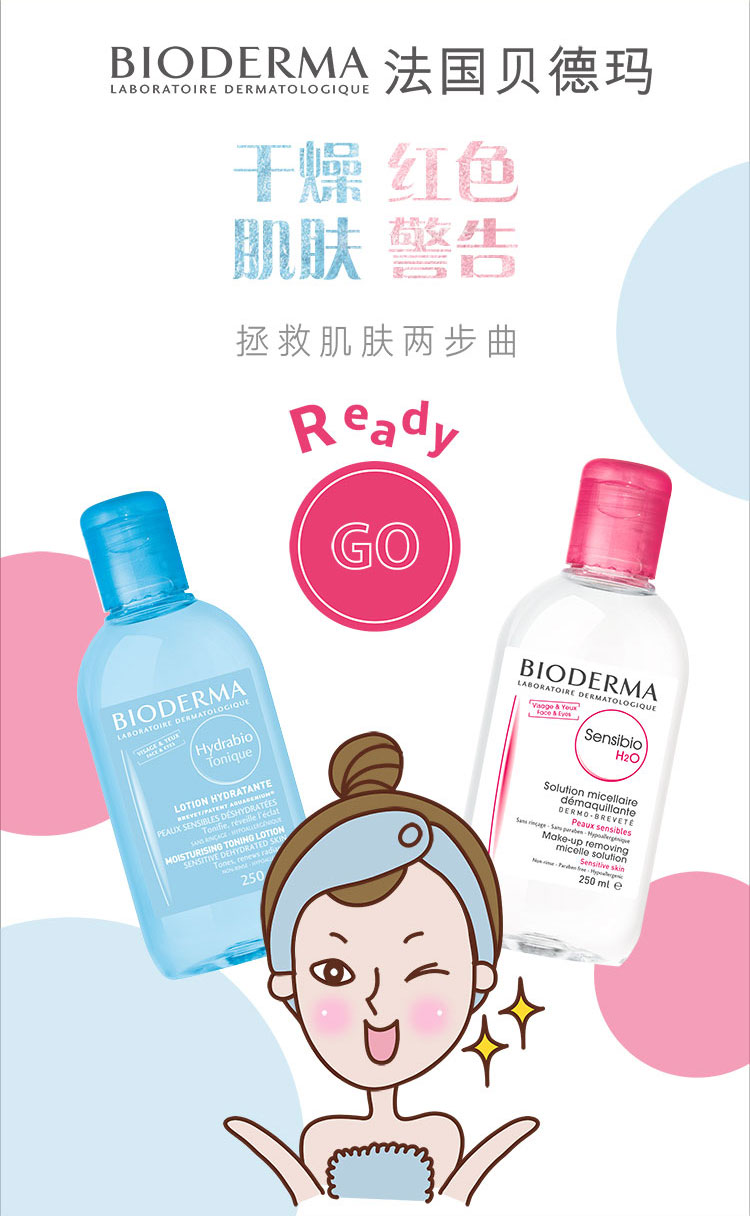
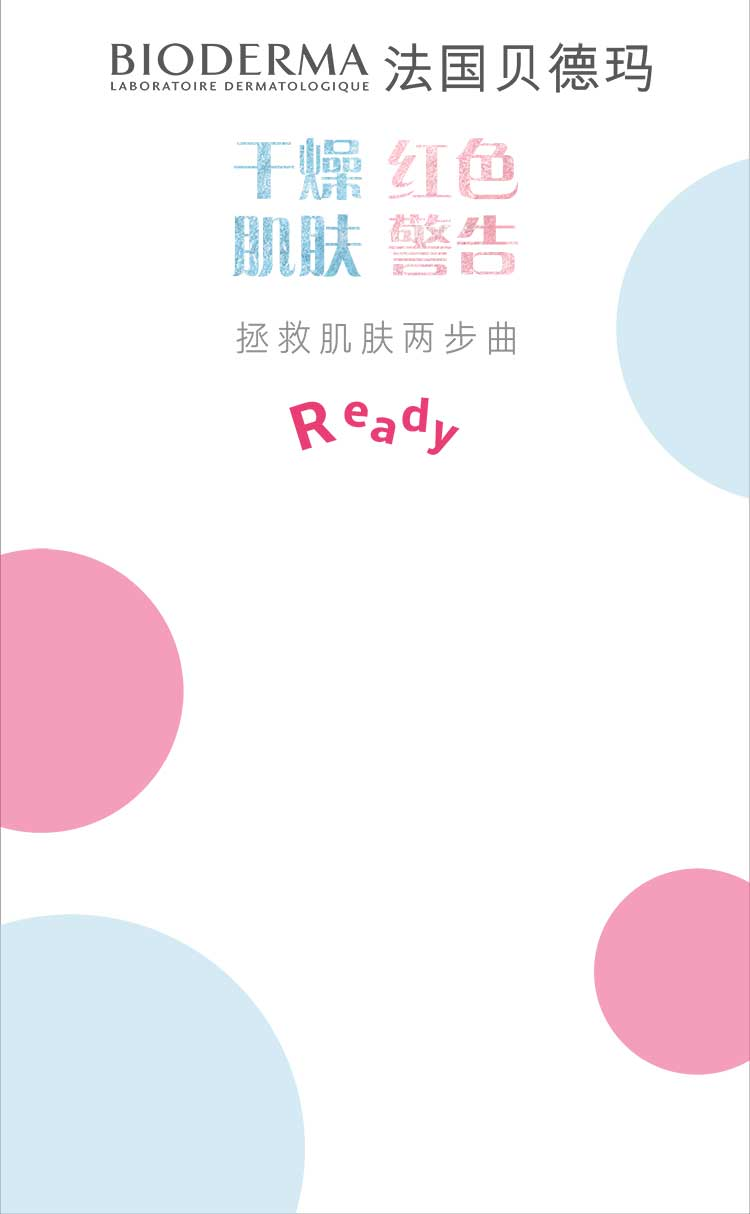
index animate

diff --git a/build/css/sprite.css b/build/css/sprite.css
@@ -22,11 +22,17 @@ To change `display` (e.g. `display: inline-block;`), we suggest using a common C
   width: 371px;
   height: 420px;
 }
+.blue-bottle-lid {
+  background-image: url(/build/img/sprite.png);
+  background-position: -2351px -594px;
+  width: 69px;
+  height: 24px;
+}
 .blue-bottle {
   background-image: url(/build/img/sprite.png);
-  background-position: -2230px -734px;
-  width: 87px;
-  height: 221px;
+  background-position: -1467px -812px;
+  width: 144px;
+  height: 349px;
 }
 .bubble {
   background-image: url(/build/img/sprite.png);
@@ -36,7 +42,7 @@ To change `display` (e.g. `display: inline-block;`), we suggest using a common C
 }
 .droplet-blue {
   background-image: url(/build/img/sprite.png);
-  background-position: -551px -1343px;
+  background-position: -795px -1343px;
   width: 208px;
   height: 197px;
 }
@@ -64,6 +70,18 @@ To change `display` (e.g. `display: inline-block;`), we suggest using a common C
   width: 492px;
   height: 734px;
 }
+.go {
+  background-image: url(/build/img/sprite.png);
+  background-position: -1003px -1343px;
+  width: 172px;
+  height: 171px;
+}
+.index-girl {
+  background-image: url(/build/img/sprite.png);
+  background-position: -985px -812px;
+  width: 322px;
+  height: 476px;
+}
 .pipe-blue {
   background-image: url(/build/img/sprite.png);
   background-position: -678px 0px;
@@ -78,37 +96,37 @@ To change `display` (e.g. `display: inline-block;`), we suggest using a common C
 }
 .red-bottle-glow {
   background-image: url(/build/img/sprite.png);
-  background-position: -985px -812px;
+  background-position: -687px -812px;
   width: 298px;
   height: 515px;
 }
 .red-bottle-lid {
   background-image: url(/build/img/sprite.png);
-  background-position: -2279px -955px;
+  background-position: -2351px -618px;
   width: 68px;
   height: 22px;
 }
 .red-bottle {
   background-image: url(/build/img/sprite.png);
-  background-position: -687px -812px;
-  width: 298px;
-  height: 515px;
+  background-position: -1611px -812px;
+  width: 143px;
+  height: 348px;
 }
 .txt-1 {
   background-image: url(/build/img/sprite.png);
-  background-position: -1443px -812px;
+  background-position: -444px -1343px;
   width: 128px;
   height: 368px;
 }
 .txt-2 {
   background-image: url(/build/img/sprite.png);
-  background-position: -1571px -812px;
+  background-position: -572px -1343px;
   width: 223px;
   height: 205px;
 }
 .txt-3 {
   background-image: url(/build/img/sprite.png);
-  background-position: -2230px -955px;
+  background-position: -2351px -421px;
   width: 49px;
   height: 173px;
 }
@@ -126,19 +144,19 @@ To change `display` (e.g. `display: inline-block;`), we suggest using a common C
 }
 .txt-6 {
   background-image: url(/build/img/sprite.png);
-  background-position: -444px -1343px;
+  background-position: -2351px 0px;
   width: 107px;
   height: 421px;
 }
 .txt-7 {
   background-image: url(/build/img/sprite.png);
-  background-position: -1283px -812px;
+  background-position: -1307px -812px;
   width: 160px;
   height: 433px;
 }
 .txt-8 {
   background-image: url(/build/img/sprite.png);
-  background-position: -1571px -1017px;
+  background-position: -1467px -1161px;
   width: 247px;
   height: 80px;
 }

diff --git a/src/js/main.js b/src/js/main.js
@@ -180,11 +180,54 @@ var app = {
 
 
 
+class IndexAnimate {
+    constructor() {
+        var self = this
+        this.intervalBottle = undefined
+        this.bottlePosture()
+        this.quiverBottle($$('.blue-bottle'))
+        this.goAni()
+        
+        setTimeout(function(){
+            self.quiverBottle($$('.red-bottle'))
+        }, 100)
+    }
+    
+    bottlePosture() {
+        TweenMax.to($$('.blue-bottle'), 0, {rotation: -15,transformOrigin: "center bottom", scale: 1.35});
+        TweenMax.to($$('.red-bottle'), 0, {rotation: 15,transformOrigin: "center bottom", scale: 1.35});
+    }
+    
+    goAni() {
+        TweenMax.to($$('.go'), 1, {yoyo: true, scale: 1.15, repeat: -1});
+    }
+    
+    quiverBottle(el, ts) {
+        ts = ts || 0.1
+        function quiverOnce() {
+            TweenMax.to(el, ts, {
+                rotation: '-=1', 
+                yoyo: true,
+                repeat: 8,
+                onComplete: function() {
+                    TweenMax.to(el, ts, {rotation: '+=1',transformOrigin: "center bottom"});
+                },
+                transformOrigin: "center bottom"});
+        }
+        quiverOnce()
+        this.intervalBottle = setInterval(quiverOnce, 3500)
+    }
+}
+
 
 
 
 
 $('body')[0].onload = function() {
-    app.init()
+    if ($$('body#index-page')) {
+        var indexAnimate = new IndexAnimate()
+    } else if($$('body#animate-page')) {
+        app.init()
+    }
 }
 

diff --git a/src/css/app.css b/src/css/app.css
@@ -13,8 +13,9 @@ body.animate {height: 1862px;background: url(/img/bg.jpg) no-repeat 0 0;position
 .txt-7 {left: 569px;top: 1385px;}
 .txt-8 {left: 389px;top: 250px;}
 .red-bottle {left: 349px;top: 67px; }
-.red-bottle-lid {left: 112px;top: 75px;}
+.red-bottle-lid {left: 36px;top: -16px;}
 .blue-bottle {left: 612px;top: 252px;}
+.blue-bottle-lid {left: 37px;top: -16px;}
 .bubble {left: 36px;top: 622px;}
 .droplet-red {left: 236px;top: 352px; }
 .droplet-blue {left: 236px;top: 352px; }
@@ -23,3 +24,12 @@ body.animate {height: 1862px;background: url(/img/bg.jpg) no-repeat 0 0;position
 .blue-bottle-incling {left: 0;top: 0; }
 
 
+#index-page {}
+#index-page .go{left: 288px; top: 461px;}
+#index-page .index-girl{left: 228px; top: 731px;}
+#index-page .blue-bottle{left: 188px; top: 641px;
+     /*transform: matrix(1.3523, -0.362347, 0.362347, 1.3523, 0, 0);*/
+ }
+#index-page .red-bottle{left: 458px; top: 626px; 
+    /*transform: matrix(1.3523, 0.362347, -0.362347, 1.3523, 0, 0);*/
+}

diff --git a/index.html b/index.html
@@ -7,10 +7,20 @@
   <meta name="viewport" content="width=750, user-scalable=no">
   <link rel="stylesheet" href="build/app.css">
 </head>
-<body>
+<body id="index-page">
     <a href="animate.html">
         <img src="img/cover_1.jpg" alt="">
     </a>
-  
+    
+    <span class="thing red-bottle">
+        <span class="thing red-bottle-lid"></span>
+    </span>
+    <span class="thing blue-bottle animated shake">
+        <span class="thing blue-bottle-lid"></span>
+    </span>
+    
+    <span class="thing index-girl"></span>
+    <a href="animate.html" class="thing go"></a>
+    <script src="build/app.bundle.js"></script>
 </body>
 </html>

diff --git a/animate.html b/animate.html
@@ -7,7 +7,7 @@
   <meta name="viewport" content="width=750, user-scalable=no">
   <link rel="stylesheet" href="build/app.css">
 </head>
-<body class="animate">
+<body class="animate" id="animate-page">
 <div id="scene-1"> 
     <span class="thing blue-bottle"></span>
     <span class="thing txt-1"></span>
